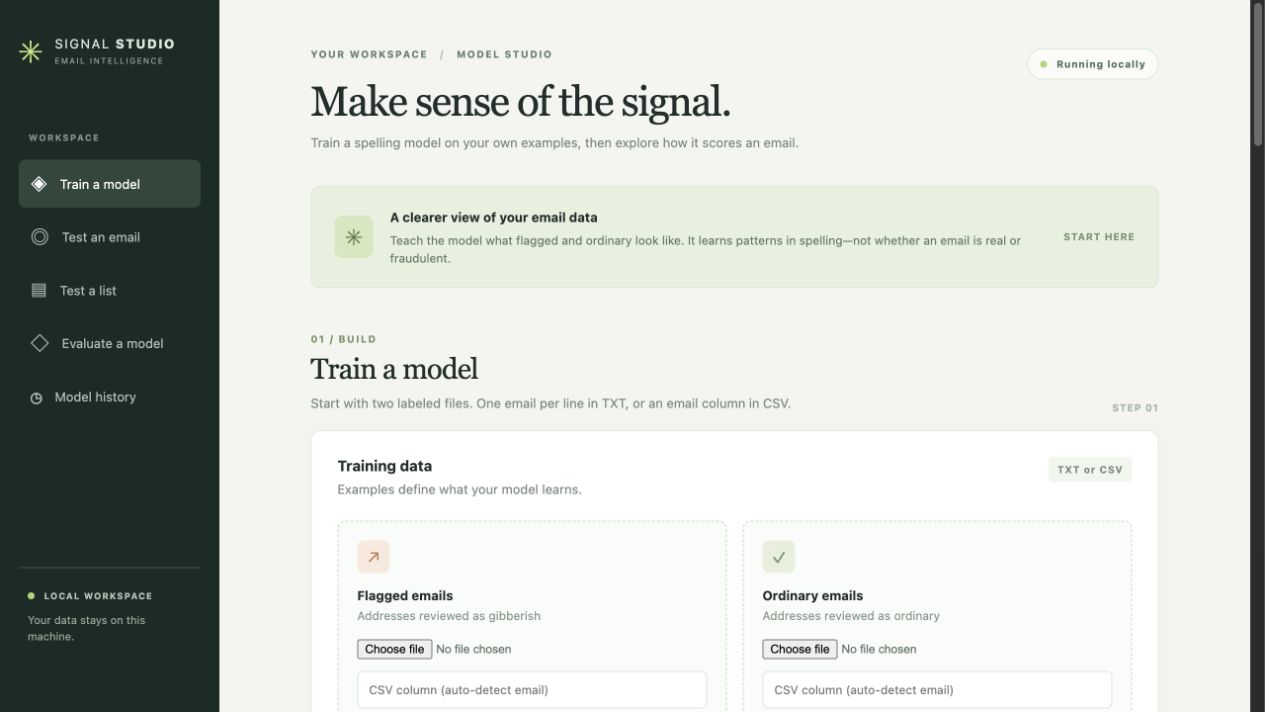
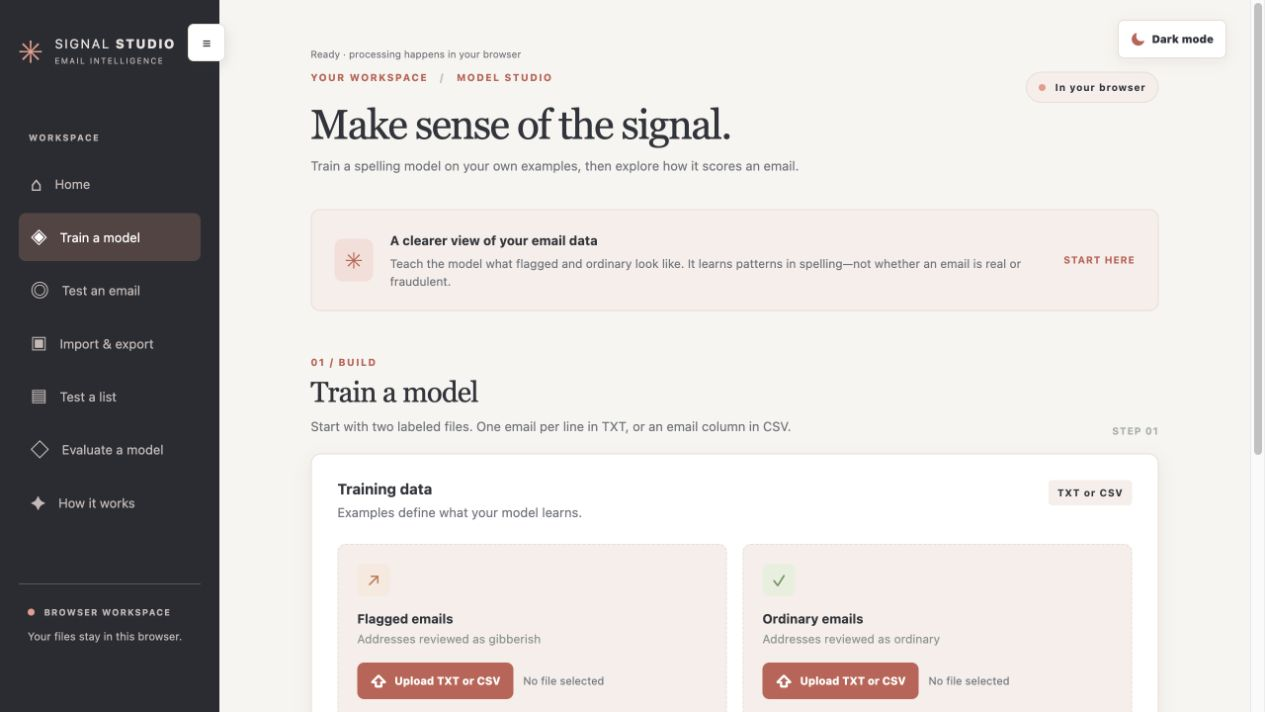
Refresh README and application screenshots

diff --git a/README.md b/README.md
@@ -1,8 +1,18 @@
 # Standalone gibberish email detector
 
-Give the trainer two local text files. One contains full email addresses your reviewers flagged for gibberish spelling. The other contains ordinary full email addresses. It learns one scoring model from the labels. The saved model can score a new bare email address or a whole file. The included demo was trained on invented examples. No real customer lists were supplied.
+Give the trainer two labeled TXT or CSV files. One contains full email addresses your reviewers flagged for gibberish spelling. The other contains ordinary full email addresses. It learns one scoring model from the labels. The saved model can score a new bare email address or a whole file. The included demo was trained on invented examples. No real customer lists were supplied.
 
 If machine learning is new to you, start with [How it works](HOW_IT_WORKS.md). It follows one email all the way from characters to a numeric score and includes training and prediction flow diagrams.
+
+## Try the browser app
+
+Open [Signal Studio](https://gibberish-email-detector.mukundaholla.workers.dev/) to try the demo, train with your own labeled files, test addresses, and explore the guide. No account is needed. The app downloads its Python runtime and training dependencies from jsDelivr; selected files and training run in the browser. Internet access is needed to load the app and dependencies.
+
+![Signal Studio home page in the charcoal and coral theme.](docs/screenshots/00-home.jpg)
+
+The sidebar has one page per feature. Use the menu button to collapse it and **Dark mode** / **Light mode** to switch themes; the browser remembers the theme choice. Models trained or imported in the browser last only for the current session. Download them before reloading or closing the page.
+
+![Signal Studio home page in dark mode.](docs/screenshots/08-dark.jpg)
 
 ## Get started with the local interface
 
@@ -21,11 +31,11 @@ The server listens on your computer only. Training requires the installed depend
 
 ## How to use the interface
 
-Use the sidebar to switch between training, single-email testing, bulk testing, evaluation, model history, and **How it works**. Each section opens as its own view; switching views keeps the current browser session intact. In the browser edition, **Import & export** is a separate view as well. The screenshots below include examples from the earlier scrolling layout; the controls work the same way.
+Use the sidebar to open **Home**, **Train a model**, **Test an email**, **Import & export** (browser edition), **Test a list**, **Evaluate a model**, or **How it works**. Each feature has its own view; switching views keeps the current session. **Model history** is linked in the footer. The screenshots below show the hosted browser edition; local storage and training behavior differ as described below.
 
 ### Explore the learning guide
 
-Open **How it works** to follow the animated training and detection walkthroughs, explore example metrics, and look up terms such as minimum coverage, validation, precision, recall, and false-alert rate. The guide also distinguishes fragment coverage and scored coverage from code coverage.
+Open **How it works** for a plain-English glossary and interactive training and detection walkthroughs. The training walkthrough shows how labeled examples become a model; the detection walkthrough follows the demo score for `mukunda@gmail.com`. The results lesson uses six fictional addresses to explain precision, recall, false alerts, and scored coverage. The guide distinguishes fragment coverage and scored coverage from code coverage.
 
 ![The interactive How it works guide.](docs/screenshots/07-guide.jpg)
 
@@ -34,19 +44,19 @@ Open **How it works** to follow the animated training and detection walkthroughs
 Create two UTF-8 files: **flagged** addresses reviewed for gibberish spelling and **ordinary** addresses. The label describes spelling, not whether a mailbox works or a person is fraudulent. Keep uncertain examples out of both files.
 
 - **TXT:** Put one complete email address on each line, with no header. Blank lines are ignored.
-- **CSV:** Include a header row. A column named `email`, `email address`, or `email_address` is detected automatically. Otherwise, enter its exact header in the CSV column field.
+- **CSV:** Include a header row. A column named `email`, `email address`, or `email_address` is detected automatically. Otherwise, expand **CSV column name (optional)** and enter the exact column header, such as `contact_email`. This field is for a column name, not pasted addresses; it is unnecessary for TXT files.
 - Keep independent holdout data aside before training. Use many reviewed examples; the code's minimum of five eligible username groups per class is only a mechanical requirement.
 
 For a practice run, use the invented files [examples/flagged.txt](examples/flagged.txt) and [examples/ordinary.txt](examples/ordinary.txt).
 
 ### 2. Review the data and train
 
-![The local app's training area, with separate file inputs for flagged and ordinary examples.](docs/screenshots/01-train.jpg)
+![The browser training page with separate file uploads for flagged and ordinary examples.](docs/screenshots/01-train.jpg)
 
-1. Under **Train a model**, choose the flagged and ordinary files. For CSV files, enter the column names if needed.
+1. Under **Train a model**, use **Upload TXT or CSV** to choose each file. The filename appears beside the button. For a CSV with a nonstandard email-column name, expand **CSV column name (optional)** and enter the exact header.
 2. Click **Preview data** to see duplicates, contradictory labels, and unsupported addresses. Select rows and click **Exclude selected & review again** to leave them out of this run; your original files are not changed. Replacing a file or changing a CSV column resets these exclusions.
 3. Optionally enter a model name and expand **Training settings**. The defaults are a minimum fragment frequency of 2, minimum component coverage of 20%, and validation false-alert budget of 5%. The budget is a target measured on the validation data, not a future guarantee.
-4. Click **Train model**. The status shows the current stage. Only one UI training run can run at a time. Refreshing the page loses the progress view, but training can continue while the server runs; stopping the server interrupts it.
+4. Click **Train model**. The status shows the current stage, and only one UI training run can run at a time. In the browser edition, keep the page open until training finishes and download the model before leaving. In the local edition, refreshing loses the progress view but training can continue while the server runs; stopping the server interrupts it.
 5. Review the saved model's test metrics. The newly trained model is selected for testing, bulk analysis, and evaluation. Use fresh, independent data for a further performance check.
 
 ### 3. Test one email
@@ -54,10 +64,16 @@ For a practice run, use the invented files [examples/flagged.txt](examples/flagg
 ![An invented email being scored, showing its decision, score, threshold, coverage, and fragment contributions.](docs/screenshots/02-test.jpg)
 
 1. Under **Test an email**, select the demo or one of your saved models.
-2. Enter a complete address and click **Analyze email**.
-3. Read the decision, score, threshold, coverage, and strongest fragment contributions. Positive contributions push toward flagged; negative ones push toward ordinary.
+2. Enter a complete address or select one of the example buttons, then click **Analyze email**.
+3. Follow the result from the username/domain split through known and unknown fragments, coverage, the score calculation, and the saved threshold. Expand **See the strongest individual fragment effects** for more detail. Positive effects push toward flagged; negative effects push toward ordinary. Low coverage can lead to **unsure** without a score.
 
 `looks_gibberish` and `looks_ordinary` are model decisions, not proof of fraud or deliverability. `unsure` means the model declined to score; inspect the reason. `score_only` means it could calculate a score but has no saved cutoff.
+
+### Import and export a model (browser edition)
+
+![Import and export controls in the browser edition.](docs/screenshots/09-import-export.jpg)
+
+Open **Import & export** to load a compatible `model.json` (up to 10 MiB). Imported and newly trained models are selected automatically. To save a model for another session, select it on **Test an email**, return to **Import & export**, and download the model. You can also download its report and reference cases when available. An imported model does not automatically include those other files.
 
 ### 4. Test and review a list
 
@@ -73,7 +89,7 @@ To build a reviewed dataset, mark binary decisions **Correct**, **Incorrect**, o
 
 ### 5. Evaluate on independent data
 
-![The holdout evaluation form with two example files selected.](docs/screenshots/05-evaluate.jpg)
+![The holdout evaluation form with separate file uploads.](docs/screenshots/05-evaluate.jpg)
 
 1. Set aside separate, labeled flagged and ordinary files that were not used to train or select the model, preferably collected later and from an independent source.
 2. Under **Evaluate a model**, select the model, choose the holdout files, and click **Evaluate model**.
@@ -86,14 +102,13 @@ The screenshots use the invented demonstration files to show the workflow. Those
 
 ### 6. Compare saved models
 
-Under **Model history**, select **Use model** to select a saved model across the testing and evaluation sections. Choose two models under **Compare two models** to inspect their reported settings and test metrics. The displayed date is the model file's last-modified time, not a guaranteed training date. Results from different test sets aren't directly comparable; evaluate both models on the same independent holdout for a fairer comparison.
+Open **Model history** from the footer and select **Use model** to select a saved model across the testing and evaluation sections. Choose two models under **Compare two models** to inspect their reported settings and test metrics. The displayed date is the model file's last-modified time, not a guaranteed training date. Results from different test sets aren't directly comparable; evaluate both models on the same independent holdout for a fairer comparison.
 
 ### Where data is saved
 
-- Trained models are in `runs/<model-id>/`: `model.json`, `report.json`, and `golden.json`. The included demo is in `demo/`.
-- Your original input files stay where you put them. Temporary copies of training and holdout lists are written to the system temporary directory and removed after the operation.
-- Bulk and review results remain in the browser until downloaded; downloads go to your browser's download location. Models and downloaded results can contain sensitive address information or learned fragments. Keep them out of public repositories.
-- Do not expose the local server as a public, multi-user service; it is designed for use on your own computer.
+- **Browser edition:** Selected files are processed in the browser. Trained and imported models, and batch review choices, last for the current session. Download models, reports, and review results before refreshing or closing the page. The app does not provide a shared server-side model database.
+- **Local edition:** Trained models are saved in `runs/<model-id>/` as `model.json`, `report.json`, and `golden.json`. The demo is in `demo/`. Original input files stay where you put them; temporary copies are removed after the operation. Local batch review choices remain in the browser until exported.
+- Downloads go to your browser's download location. Models and results may contain sensitive addresses or learned fragments; keep private data out of public repositories. The local server is designed for use on your own computer, not as a public multi-user service.
 
 ## Command-line usage
 
@@ -197,7 +212,7 @@ print(answer["score"], answer["decision"])
 | `demo/model.json` | The learned demo weights and associated scoring settings. |
 | `demo/report.json` | Counts and evaluation results from training the demo. This is the file to read when assessing quality. |
 | `demo/golden.json` | Ten fixed invented inputs and their expected outputs for repeatability. |
-| `test_detector.py`, `test_local_ui.py`, `test_review.js` | Regression checks for the detector and local interface. Run `python -m unittest -v test_detector test_local_ui` and `node --test test_review.js` after installing the training dependency. |
+| `test_browser_backend.py`, `test_detector.py`, `test_local_ui.py`, `test_review.js` | Regression checks for the browser adapter, detector, local interface, and review helpers. Run the commands in [Testing](#testing). |
 | `README.md` and `HOW_IT_WORKS.md` | Commands and an illustrated explanation. |
 | `.venv/` | Created on your computer. Holds the project-specific Python environment and installed dependencies. |
 | `runs/` and `results/` | Created by the commands above for your own models and local predictions. |
@@ -227,12 +242,16 @@ npx wrangler deploy
 
 `wrangler.jsonc` points Cloudflare at the generated `web-dist/` directory. The build refuses unexpected files in that directory rather than publishing them. Keep private datasets and trained model artifacts out of the directory and public source control. For local preview, run `python3 -m http.server 8766 --directory web-dist` and open `http://127.0.0.1:8766/`. The local server documented above remains an alternative for native Python training.
 
-The browser edition performs a golden-case check of the demo model during startup. To verify the Python adapters and export helpers locally, run:
+## Testing
+
+The browser edition checks the demo model against its saved reference cases at startup. To run the Python adapter, detector, and local-interface tests plus the JavaScript review tests, activate your environment and run:
 
 ```bash
 python -m unittest -v test_browser_backend test_local_ui test_detector
 node --test test_review.js
 ```
+
+These checks verify behavior and compatibility; they are not a real-world accuracy measurement. Evaluate model quality on independent, representative labeled addresses.
 
 ## Performance testing
 
